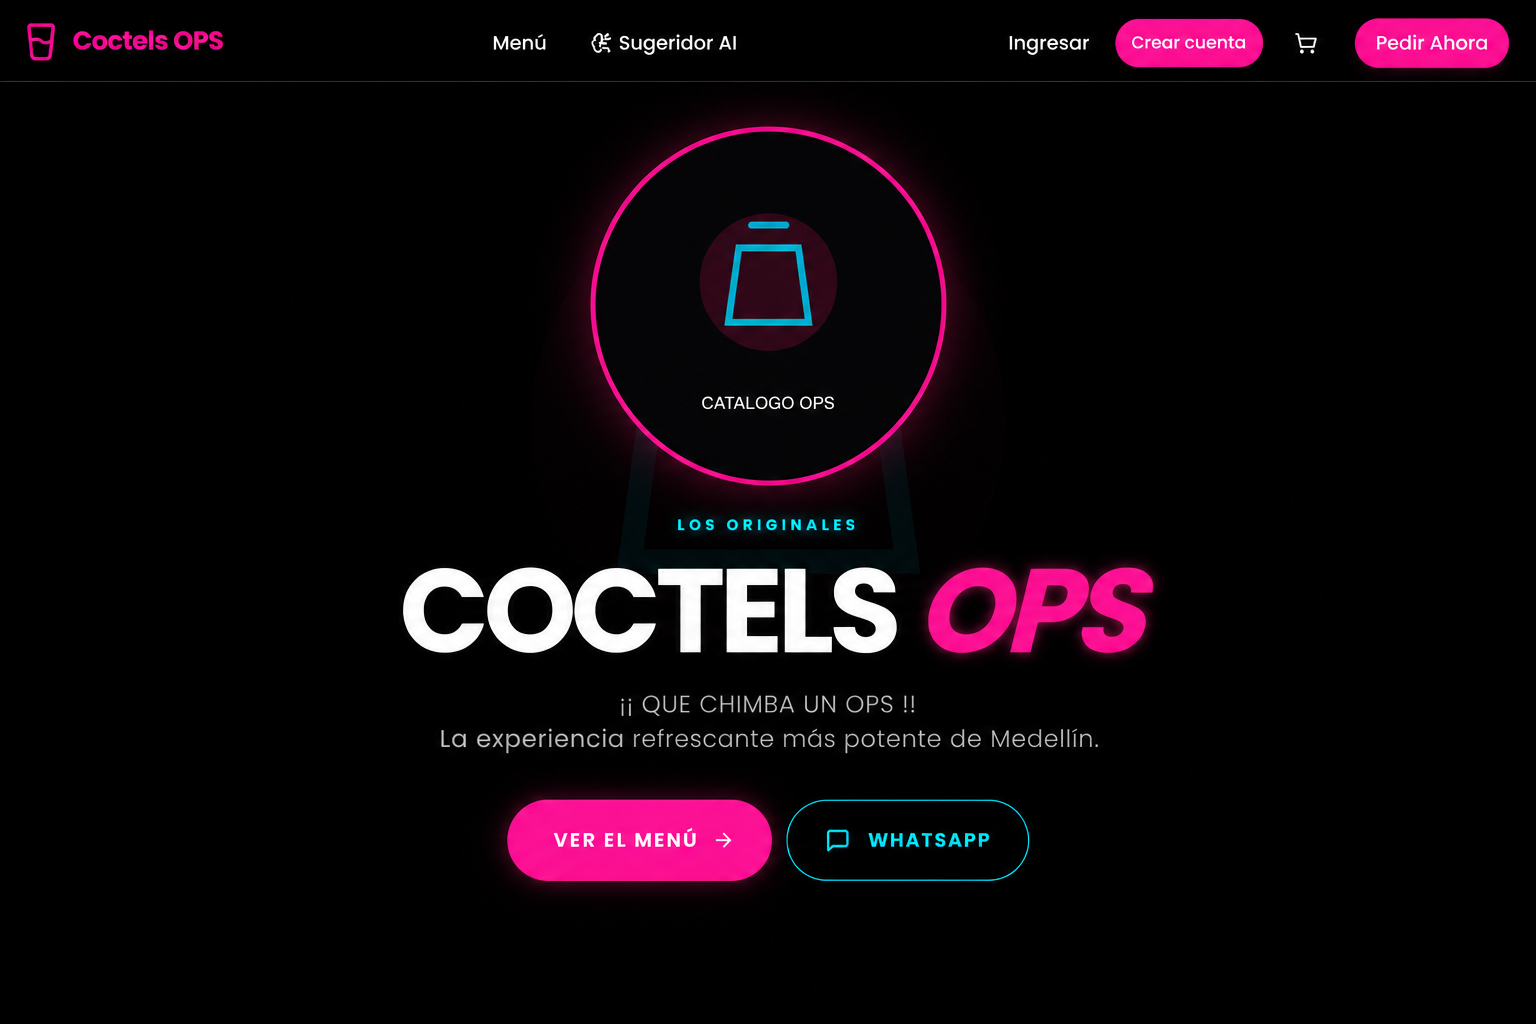
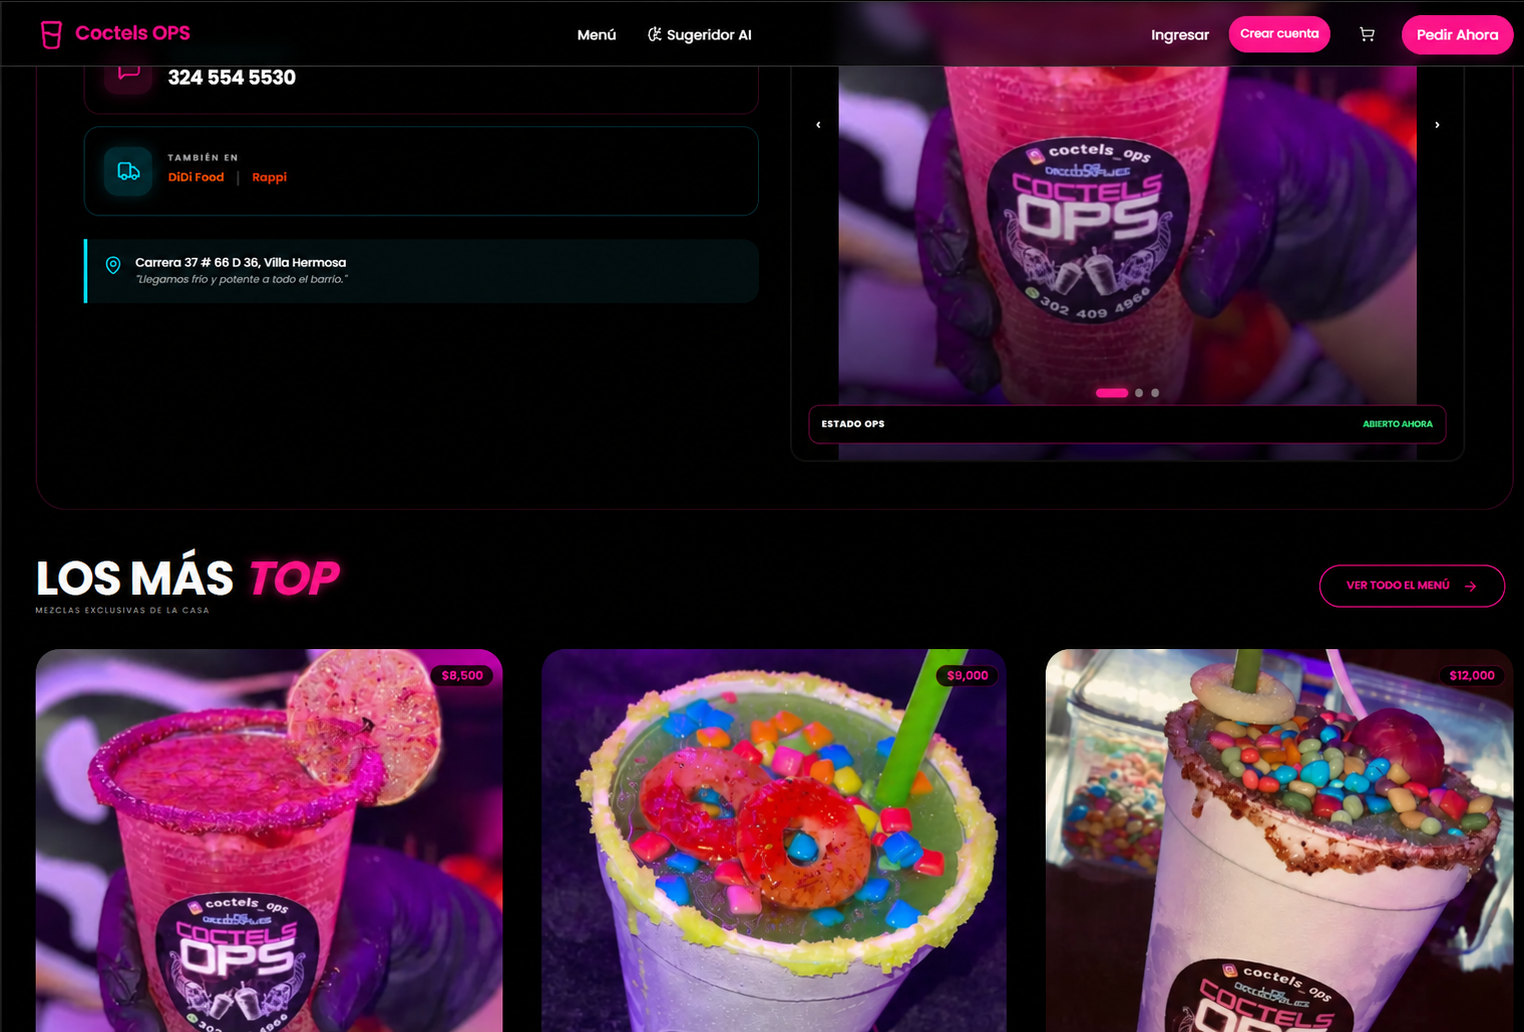
fix: refresh project captures and accents

diff --git a/index.html b/index.html
@@ -37,19 +37,19 @@
     <section class="section" id="capacidades"><div class="wrap"><div class="section-heading" data-reveal><div><div class="eyebrow">01 / capacidades</div><h2>La tecnología debe sentirse simple.</h2></div><p>Unimos estrategia, diseño y código para llevar una idea desde el primer esquema hasta una solución que se puede usar.</p></div><div class="capabilities-layout" data-reveal><div class="capability-list" role="tablist" aria-label="Capacidades de ALS DevStudio"><button class="capability-tab is-selected" type="button" role="tab" aria-selected="true" data-capability="web"><span>01</span>Productos web</button><button class="capability-tab" type="button" role="tab" aria-selected="false" data-capability="systems"><span>02</span>Sistemas y operaciones</button><button class="capability-tab" type="button" role="tab" aria-selected="false" data-capability="commerce"><span>03</span>Comercio digital</button><button class="capability-tab" type="button" role="tab" aria-selected="false" data-capability="collab"><span>04</span>Desarrollo colaborativo</button></div><div class="capability-panel" id="capability-panel" role="tabpanel" aria-live="polite"><div class="capability-kicker mono">selected capability / <span id="capability-index">01</span></div><h3 id="capability-title">Interfaces que convierten complejidad en claridad.</h3><p id="capability-copy">Creamos sitios, dashboards y aplicaciones web con una experiencia pensada para que cada persona sepa qué hacer después.</p><div class="capability-tags" id="capability-tags"><span class="tag">UX / UI</span><span class="tag">React</span><span class="tag">TypeScript</span><span class="tag">Cloudflare</span></div></div></div></div></section>
     <section class="section" id="proyectos"><div class="wrap"><div class="section-heading" data-reveal><div><div class="eyebrow">02 / proyectos</div><h2>Trabajo que ya está tomando forma.</h2></div><p>Una selección de productos, experimentos y sistemas públicos de la factoría ALS.</p></div><div class="project-filters" role="group" aria-label="Filtrar proyectos" data-reveal><button class="filter is-active" type="button" data-filter="all">Todos</button><button class="filter" type="button" data-filter="product">Producto</button><button class="filter" type="button" data-filter="web">Web</button><button class="filter" type="button" data-filter="systems">Sistemas</button></div><div class="projects-grid">
       <a class="project-card" href="https://multiogar.vercel.app" target="_blank" rel="noopener" aria-label="Abrir proyecto Multiogar" data-category="product"><div class="project-visual"><img class="project-image" src="assets/projects/multiogar.png" alt="Captura de Multiogar" loading="lazy" decoding="async"></div><div class="project-body"><h3>Multiogar</h3><p>Experiencia digital para descubrir, comparar y organizar soluciones para el hogar.</p></div></a>
-      <a class="project-card" href="https://tecnifullgas.pages.dev/" target="_blank" rel="noopener" aria-label="Abrir proyecto tecnifullgas" data-category="web"><div class="project-visual"><img class="project-image" src="assets/projects/tecnifullgas.png" alt="Captura de tecnifullgas" loading="lazy" decoding="async"></div><div class="project-body"><h3>tecnifullgas</h3><p>Proyecto web de servicio para presentar una operaciÃ³n clara y cercana.</p></div></a>
-      <a class="project-card" href="https://bptjersey.pages.dev/" target="_blank" rel="noopener" aria-label="Abrir proyecto BPT-Jersey" data-category="web"><div class="project-visual"><img class="project-image" src="assets/projects/bpt-jersey.png" alt="Captura de BPT-Jersey" loading="lazy" decoding="async"></div><div class="project-body"><h3>BPT-Jersey</h3><p>Experiencia digital de servicio para explorar una operaciÃ³n clara.</p></div></a>
-      <a class="project-card" href="https://siliconesolutions.pages.dev/" target="_blank" rel="noopener" aria-label="Abrir proyecto SiliconeSolutions" data-category="web"><div class="project-visual"><img class="project-image" src="assets/projects/siliconesolutions.png" alt="Captura de SiliconeSolutions" loading="lazy" decoding="async"></div><div class="project-body"><h3>SiliconeSolutions</h3><p>Presencia digital y soluciones de negocio para SiliconeSolutions.</p></div></a>
+      <a class="project-card" href="https://tecnifullgas.pages.dev/" target="_blank" rel="noopener" aria-label="Abrir proyecto tecnifullgas" data-category="web"><div class="project-visual"><img class="project-image" src="assets/projects/tecnifullgas.png" alt="Captura de tecnifullgas" loading="lazy" decoding="async"></div><div class="project-body"><h3>Tecnifullgas</h3><p>Proyecto web de servicio para presentar una operación clara y cercana.</p></div></a>
+      <a class="project-card" href="https://bptjersey.pages.dev/" target="_blank" rel="noopener" aria-label="Abrir proyecto BPT-Jersey" data-category="web"><div class="project-visual"><img class="project-image" src="assets/projects/bpt-jersey.png" alt="Captura de BPT-Jersey" loading="lazy" decoding="async"></div><div class="project-body"><h3>BPT-Jersey</h3><p>Experiencia digital de servicio para explorar una operación clara.</p></div></a>
+      <a class="project-card" href="https://siliconesolutions.pages.dev/" target="_blank" rel="noopener" aria-label="Abrir proyecto SiliconeSolutions" data-category="web"><div class="project-visual"><img class="project-image" src="assets/projects/siliconesolutions.png" alt="Captura de SiliconeSolutions" loading="lazy" decoding="async"></div><div class="project-body"><h3>Silicone Solutions</h3><p>Presencia digital y soluciones de negocio para SiliconeSolutions.</p></div></a>
       <a class="project-card" href="https://laparada.pages.dev" target="_blank" rel="noopener" aria-label="Abrir proyecto La Parada" data-category="product"><div class="project-visual"><img class="project-image" src="assets/projects/laparada.png" alt="Captura de La Parada" loading="lazy" decoding="async"></div><div class="project-body"><h3>La Parada</h3><p>Aplicación web para operar un punto de venta con velocidad en cada pedido.</p></div></a>
       <a class="project-card" href="https://thecococlub.vercel.app" target="_blank" rel="noopener" aria-label="Abrir proyecto The Coco Club" data-category="web"><div class="project-visual"><img class="project-image" src="assets/projects/thecococlub.png" alt="Captura de The Coco Club" loading="lazy" decoding="async"></div><div class="project-body"><h3>The Coco Club</h3><p>Presencia digital de marca con una experiencia fresca, editorial y lista para crecer.</p></div></a>
       <a class="project-card" href="https://mundocelular.vercel.app" target="_blank" rel="noopener" aria-label="Abrir proyecto Mundo Celular" data-category="web"><div class="project-visual"><img class="project-image" src="assets/projects/mundocelular.png" alt="Captura de Mundo Celular" loading="lazy" decoding="async"></div><div class="project-body"><h3>Mundo Celular</h3><p>Catálogo digital para explorar productos y llevar la conversación directo a WhatsApp.</p></div></a>
       <a class="project-card" href="https://hachi-greciaspa.vercel.app/" target="_blank" rel="noopener" aria-label="Abrir proyecto Hachi Grecia Spa" data-category="web"><div class="project-visual"><img class="project-image" src="assets/projects/hachi-greciaspa.png" alt="Captura de Hachi Grecia Spa" loading="lazy" decoding="async"></div><div class="project-body"><h3>Hachi Grecia Spa</h3><p>Experiencia digital para descubrir servicios de bienestar para mascotas.</p></div></a>
-      <a class="project-card" href="https://pintumaster.pages.dev/" target="_blank" rel="noopener" aria-label="Abrir proyecto PintuMaster" data-category="systems"><div class="project-visual"><img class="project-image" src="assets/projects/pintumaster.png" alt="Captura de PintuMaster" loading="lazy" decoding="async"></div><div class="project-body"><h3>PintuMaster</h3><p>Herramienta digital para organizar trabajo y producciÃ³n.</p></div></a>
+      <a class="project-card" href="https://pintumaster.pages.dev/" target="_blank" rel="noopener" aria-label="Abrir proyecto PintuMaster" data-category="systems"><div class="project-visual"><img class="project-image" src="assets/projects/pintumaster.png" alt="Captura de PintuMaster" loading="lazy" decoding="async"></div><div class="project-body"><h3>Pintu Master</h3><p>Herramienta digital para organizar trabajo y producción.</p></div></a>
       <a class="project-card" href="https://coctelsops.vercel.app/" target="_blank" rel="noopener" aria-label="Abrir proyecto Coctels OPS" data-category="web"><div class="project-visual"><img class="project-image" src="assets/projects/coctelsops.png" alt="Captura de Coctels OPS" loading="lazy" decoding="async"></div><div class="project-body"><h3>Coctels OPS</h3><p>Experimento de interfaz para explorar una experiencia web funcional.</p></div></a>
-      <a class="project-card" href="https://ledgerharbour.vercel.app" target="_blank" rel="noopener" aria-label="Abrir proyecto LedgerHarbour" data-category="systems"><div class="project-visual"><img class="project-image" src="assets/projects/ledgerharbour.png" alt="Captura de LedgerHarbour" loading="lazy" decoding="async"></div><div class="project-body"><h3>LedgerHarbour</h3><p>Un puerto de control para visualizar movimientos y decisiones financieras.</p></div></a>
-      <a class="project-card" href="https://field-hours.vercel.app" target="_blank" rel="noopener" aria-label="Abrir proyecto field-hours" data-category="systems"><div class="project-visual"><img class="project-image" src="assets/projects/field-hours.png" alt="Captura de field-hours" loading="lazy" decoding="async"></div><div class="project-body"><h3>field-hours</h3><p>Herramienta operativa para registrar jornadas y tener el trabajo de campo bajo control.</p></div></a>
+      <a class="project-card" href="https://ledgerharbour.vercel.app" target="_blank" rel="noopener" aria-label="Abrir proyecto LedgerHarbour" data-category="systems"><div class="project-visual"><img class="project-image" src="assets/projects/ledgerharbour.png" alt="Captura de LedgerHarbour" loading="lazy" decoding="async"></div><div class="project-body"><h3>Ledger Harbour</h3><p>Un puerto de control para visualizar movimientos y decisiones financieras.</p></div></a>
+      <a class="project-card" href="https://field-hours.vercel.app" target="_blank" rel="noopener" aria-label="Abrir proyecto field-hours" data-category="systems"><div class="project-visual"><img class="project-image" src="assets/projects/field-hours.png" alt="Captura de field-hours" loading="lazy" decoding="async"></div><div class="project-body"><h3>Field Hours</h3><p>Herramienta operativa para registrar jornadas y tener el trabajo de campo bajo control.</p></div></a>
       <a class="project-card" href="https://jobsitejedi.vercel.app/" target="_blank" rel="noopener" aria-label="Abrir proyecto Jobsite Jedi" data-category="product"><div class="project-visual"><img class="project-image" src="assets/projects/jobsitejedi.png" alt="Captura de Jobsite Jedi" loading="lazy" decoding="async"></div><div class="project-body"><h3>Jobsite Jedi</h3><p>Espacio de trabajo para convertir la búsqueda laboral en una misión clara.</p></div></a>
-      <a class="project-card" href="https://mercadointeligente.pages.dev/" target="_blank" rel="noopener" aria-label="Abrir proyecto Mercado Inteligente" data-category="product"><div class="project-visual"><img class="project-image" src="assets/projects/mercadointeligente.png" alt="Captura de Mercado Inteligente" loading="lazy" decoding="async"></div><div class="project-body"><h3>Mercado Inteligente</h3><p>Experimento de producto para explorar comercio e informaciÃ³n.</p></div></a>
+      <a class="project-card" href="https://mercadointeligente.pages.dev/" target="_blank" rel="noopener" aria-label="Abrir proyecto Mercado Inteligente" data-category="product"><div class="project-visual"><img class="project-image" src="assets/projects/mercadointeligente.png" alt="Captura de Mercado Inteligente" loading="lazy" decoding="async"></div><div class="project-body"><h3>Mercado Inteligente</h3><p>Experimento de producto para explorar comercio e información.</p></div></a>
       <a class="project-card" href="https://donacionesvenezuela.vercel.app/" target="_blank" rel="noopener" aria-label="Abrir proyecto Donaciones Venezuela" data-category="product"><div class="project-visual"><img class="project-image" src="assets/projects/donacionesvenezuela.png" alt="Captura de Donaciones Venezuela" loading="lazy" decoding="async"></div><div class="project-body"><h3>Donaciones Venezuela</h3><p>Plataforma para conectar insumos y necesidades con más claridad.</p></div></a>
     </div><div class="projects-footer"><span>Más repositorios y experimentos en el perfil público.</span><a href="https://github.com/andresleosan?tab=repositories" target="_blank" rel="noopener">Explorar GitHub completo ↗</a></div></div></section>
     <section class="section" id="proceso"><div class="wrap"><div class="section-heading" data-reveal><div><div class="eyebrow">03 / proceso</div><h2>Del problema al siguiente nivel.</h2></div><p>Un proceso corto, visible y colaborativo para que el avance siempre tenga sentido.</p></div><div class="process-grid" data-reveal><article class="process-item"><div class="process-number">01 / entender</div><h3>Le damos forma al reto.</h3><p>Objetivos, usuarios y prioridades antes de abrir el editor.</p></article><article class="process-item"><div class="process-number">02 / construir</div><h3>Diseñamos lo que se puede usar.</h3><p>Prototipos, código limpio y avances que se pueden revisar.</p></article><article class="process-item"><div class="process-number">03 / evolucionar</div><h3>Lo dejamos listo para crecer.</h3><p>Entregamos, medimos y seguimos mejorando lo que importa.</p></article></div></div></section>

diff --git a/styles/main.css b/styles/main.css
@@ -47,7 +47,7 @@
     /* Projects */
     .project-filters { display:flex; flex-wrap:wrap; gap:8px; margin-bottom:24px; } .filter { background:transparent; color:var(--muted); border:1px solid var(--line); border-radius:999px; padding:9px 14px; cursor:pointer; font:500 10px 'IBM Plex Mono',monospace; text-transform:uppercase; transition:.25s ease; } .filter:hover,.filter.is-active { color:var(--ink); background:var(--mint); border-color:var(--mint); }
     .projects-grid { display:grid; grid-template-columns:repeat(2,minmax(0,1fr)); gap:22px; align-items:start; }  .project-card { grid-column:auto; min-height:0; align-self:start; display:flex; flex-direction:column; border:1px solid var(--line); border-radius:18px; overflow:hidden; background:rgba(13,39,70,.65); text-decoration:none; transition:transform .35s ease,border-color .35s ease,opacity .25s; } .project-card:hover { transform:translateY(-8px); border-color:rgba(101,212,157,.65); } .project-card.is-hidden { display:none; }
-    .project-visual { min-height:300px; aspect-ratio:16/10; flex:none; position:relative; overflow:hidden; display:flex; background:#11375b; } .project-card:nth-child(3n) .project-visual { background:linear-gradient(135deg,#123e4c,#17697e); } .project-card:nth-child(3n+1) .project-visual { background:linear-gradient(135deg,#142f59,#236fc0); } .project-card:nth-child(3n+2) .project-visual { background:linear-gradient(135deg,#203c37,#2d8e69); } .project-image { position:absolute; inset:0; z-index:0; width:100%; height:100%; object-fit:cover; object-position:top center; } .project-body { padding:20px 20px 18px; } .project-body h3 { font:600 23px 'Space Grotesk',sans-serif; letter-spacing:-.04em; } .project-body p { min-height:43px; margin-top:7px; color:var(--muted); font-size:13px; }
+    .project-visual { min-height:300px; aspect-ratio:16/10; flex:none; position:relative; overflow:hidden; display:flex; background:#11375b; } .project-card:nth-child(3n) .project-visual { background:linear-gradient(135deg,#123e4c,#17697e); } .project-card:nth-child(3n+1) .project-visual { background:linear-gradient(135deg,#142f59,#236fc0); } .project-card:nth-child(3n+2) .project-visual { background:linear-gradient(135deg,#203c37,#2d8e69); } .project-image { position:absolute; inset:0; z-index:0; width:100%; height:100%; object-fit:cover; object-position:top center; } .project-card[href*='mundocelular'] .project-image { object-position:top left; } .project-body { padding:20px 20px 18px; } .project-body h3 { font:600 23px 'Space Grotesk',sans-serif; letter-spacing:-.04em; } .project-body p { min-height:43px; margin-top:7px; color:var(--muted); font-size:13px; }
     .projects-footer { display:flex; justify-content:space-between; align-items:center; gap:20px; margin-top:22px; color:var(--muted); font:400 11px 'IBM Plex Mono',monospace; } .projects-footer a { color:var(--mint); text-underline-offset:4px; }
 
     /* Process / contact */

diff --git a/tasks.md b/tasks.md
@@ -46,9 +46,9 @@
 ## QA de esta iteración
 - `node --check` sobre el JavaScript embebido: PASS.
 - 15 tarjetas y 15 slides visibles; 0 overlays `project-code`/`project-type`; 0 destinos GitHub en tarjetas.
-- 15 assets locales verificados; 6 capturas web regeneradas desde demos p�blicas.
+- 15 assets locales verificados; 6 capturas web regeneradas desde demos públicas.
 - 15 destinos web comprobados con HTTP 200; SurtiFacil y Coctelsops-F- se excluyeron porque sus demos declaradas respondieron HTTP 404.
-- Auditor�a est�tica: sin URLs `javascript:`, sin secretos nuevos y enlaces externos con `rel="noopener"`.
+- Auditoría estática: sin URLs `javascript:`, sin secretos nuevos y enlaces externos con `rel="noopener"`.
 
 - [x] Consolidar la entrada única de la landing en `index.html` y retirar el HTML duplicado del repositorio.
 
@@ -151,3 +151,33 @@
 ## QA de esta iteración
 - Retirado el atributo data-reveal del contenedor global de proyectos para evitar que toda la grilla permanezca invisible mientras espera al IntersectionObserver.
 - Las imágenes mantienen loading lazy y decoding async para cargar progresivamente sin bloquear la aparición de las tarjetas.
+
+- [x] Ocultar barra incrustada en la captura de Mundo Celular.
+
+## QA de esta iteración
+- El encuadre de Mundo Celular ahora prioriza la esquina superior izquierda y deja fuera la barra del navegador incluida en el screenshot.
+- No se modificaron el enlace, el asset original ni el comportamiento global de las tarjetas.
+
+- [x] Actualizar captura de PintuMaster con el dashboard entregado.
+
+## QA de esta iteración
+- Reemplazado assets/projects/pintumaster.png conservando la ruta usada por la tarjeta.
+- La captura muestra el dashboard de PintuMaster y mantiene el enlace público del proyecto.
+
+- [x] Actualizar captura de Coctels OPS con la vista de domicilio y Los más TOP.
+
+## QA de esta iteración
+- Reemplazado assets/projects/coctelsops.png conservando la ruta consumida por la tarjeta.
+- La nueva captura muestra la navegación, el bloque de domicilio y la sección de productos destacados.
+
+- [x] Actualizar captura de Mercado Inteligente con la vista de presupuesto y compras.
+
+## QA de esta iteración
+- Reemplazado assets/projects/mercadointeligente.png conservando la ruta consumida por la tarjeta.
+- La nueva captura muestra Presupuesto diario y Registrar compra, con el enlace del proyecto intacto.
+
+- [x] Corregir acentos dañados por codificación incorrecta.
+
+## QA de esta iteración
+- Corregidos los textos de Mercado Inteligente, AUDITORIA.md y tasks.md.
+- Escaneo UTF-8 sobre archivos de texto: 0 coincidencias de mojibake; node --check PASS y git diff --check PASS.

diff --git a/RELEASE.md b/RELEASE.md
@@ -109,3 +109,26 @@ Después, verificar https://alsdevstudio.vercel.app/ y el estado del despliegue 
 
 - La grilla de proyectos ya no depende de una animación de entrada global para hacerse visible.
 - Las tarjetas aparecen de inmediato y sus capturas continúan con carga diferida.
+
+## 2026-08-27 · Barra de navegador fuera del encuadre
+
+- Ajustado el object-position de la captura de Mundo Celular para que no se muestre la barra vertical incrustada en el screenshot.
+
+## 2026-08-27 · Dashboard de PintuMaster
+
+- Reemplazada la captura de login por la vista dashboard entregada para PintuMaster.
+- Conservadas la tarjeta, la ruta del asset y el enlace público del proyecto.
+
+## 2026-08-27 · Domicilios y Los más TOP
+
+- Reemplazada la captura de Coctels OPS por la vista entregada con domicilio y productos destacados.
+- Conservadas la tarjeta, la ruta del asset y el enlace público del proyecto.
+
+## 2026-08-27 · Presupuesto y compras
+
+- Reemplazada la captura de Mercado Inteligente por la vista de presupuesto diario y registro de compra.
+- Conservadas la tarjeta, la ruta del asset y el enlace público del proyecto.
+
+## 2026-08-27 · Acentos corregidos
+
+- Reparados textos con codificación dañada para que los acentos se rendericen correctamente en la interfaz y la documentación.

diff --git a/AUDITORIA.md b/AUDITORIA.md
@@ -15,7 +15,7 @@ Las miniaturas existentes incluían imágenes base64 muy grandes dentro del HTML
 Solo había hover básico. No existían filtros, reveal al scroll, cursor visual ni estados de navegación activos.
 
 ### Baja — contenido mal codificado
-El archivo presentaba mojibake en varios textos acentuados (`diseÃ±ados`, etc.). La renovación lo corrige con UTF-8 real.
+El archivo presentaba mojibake en varios textos acentuados (`diseñados`, etc.). La renovación lo corrige con UTF-8 real.
 
 ## Seguridad final
 - No hay endpoints propios, autenticación, almacenamiento de datos ni dependencias de ejecución.
